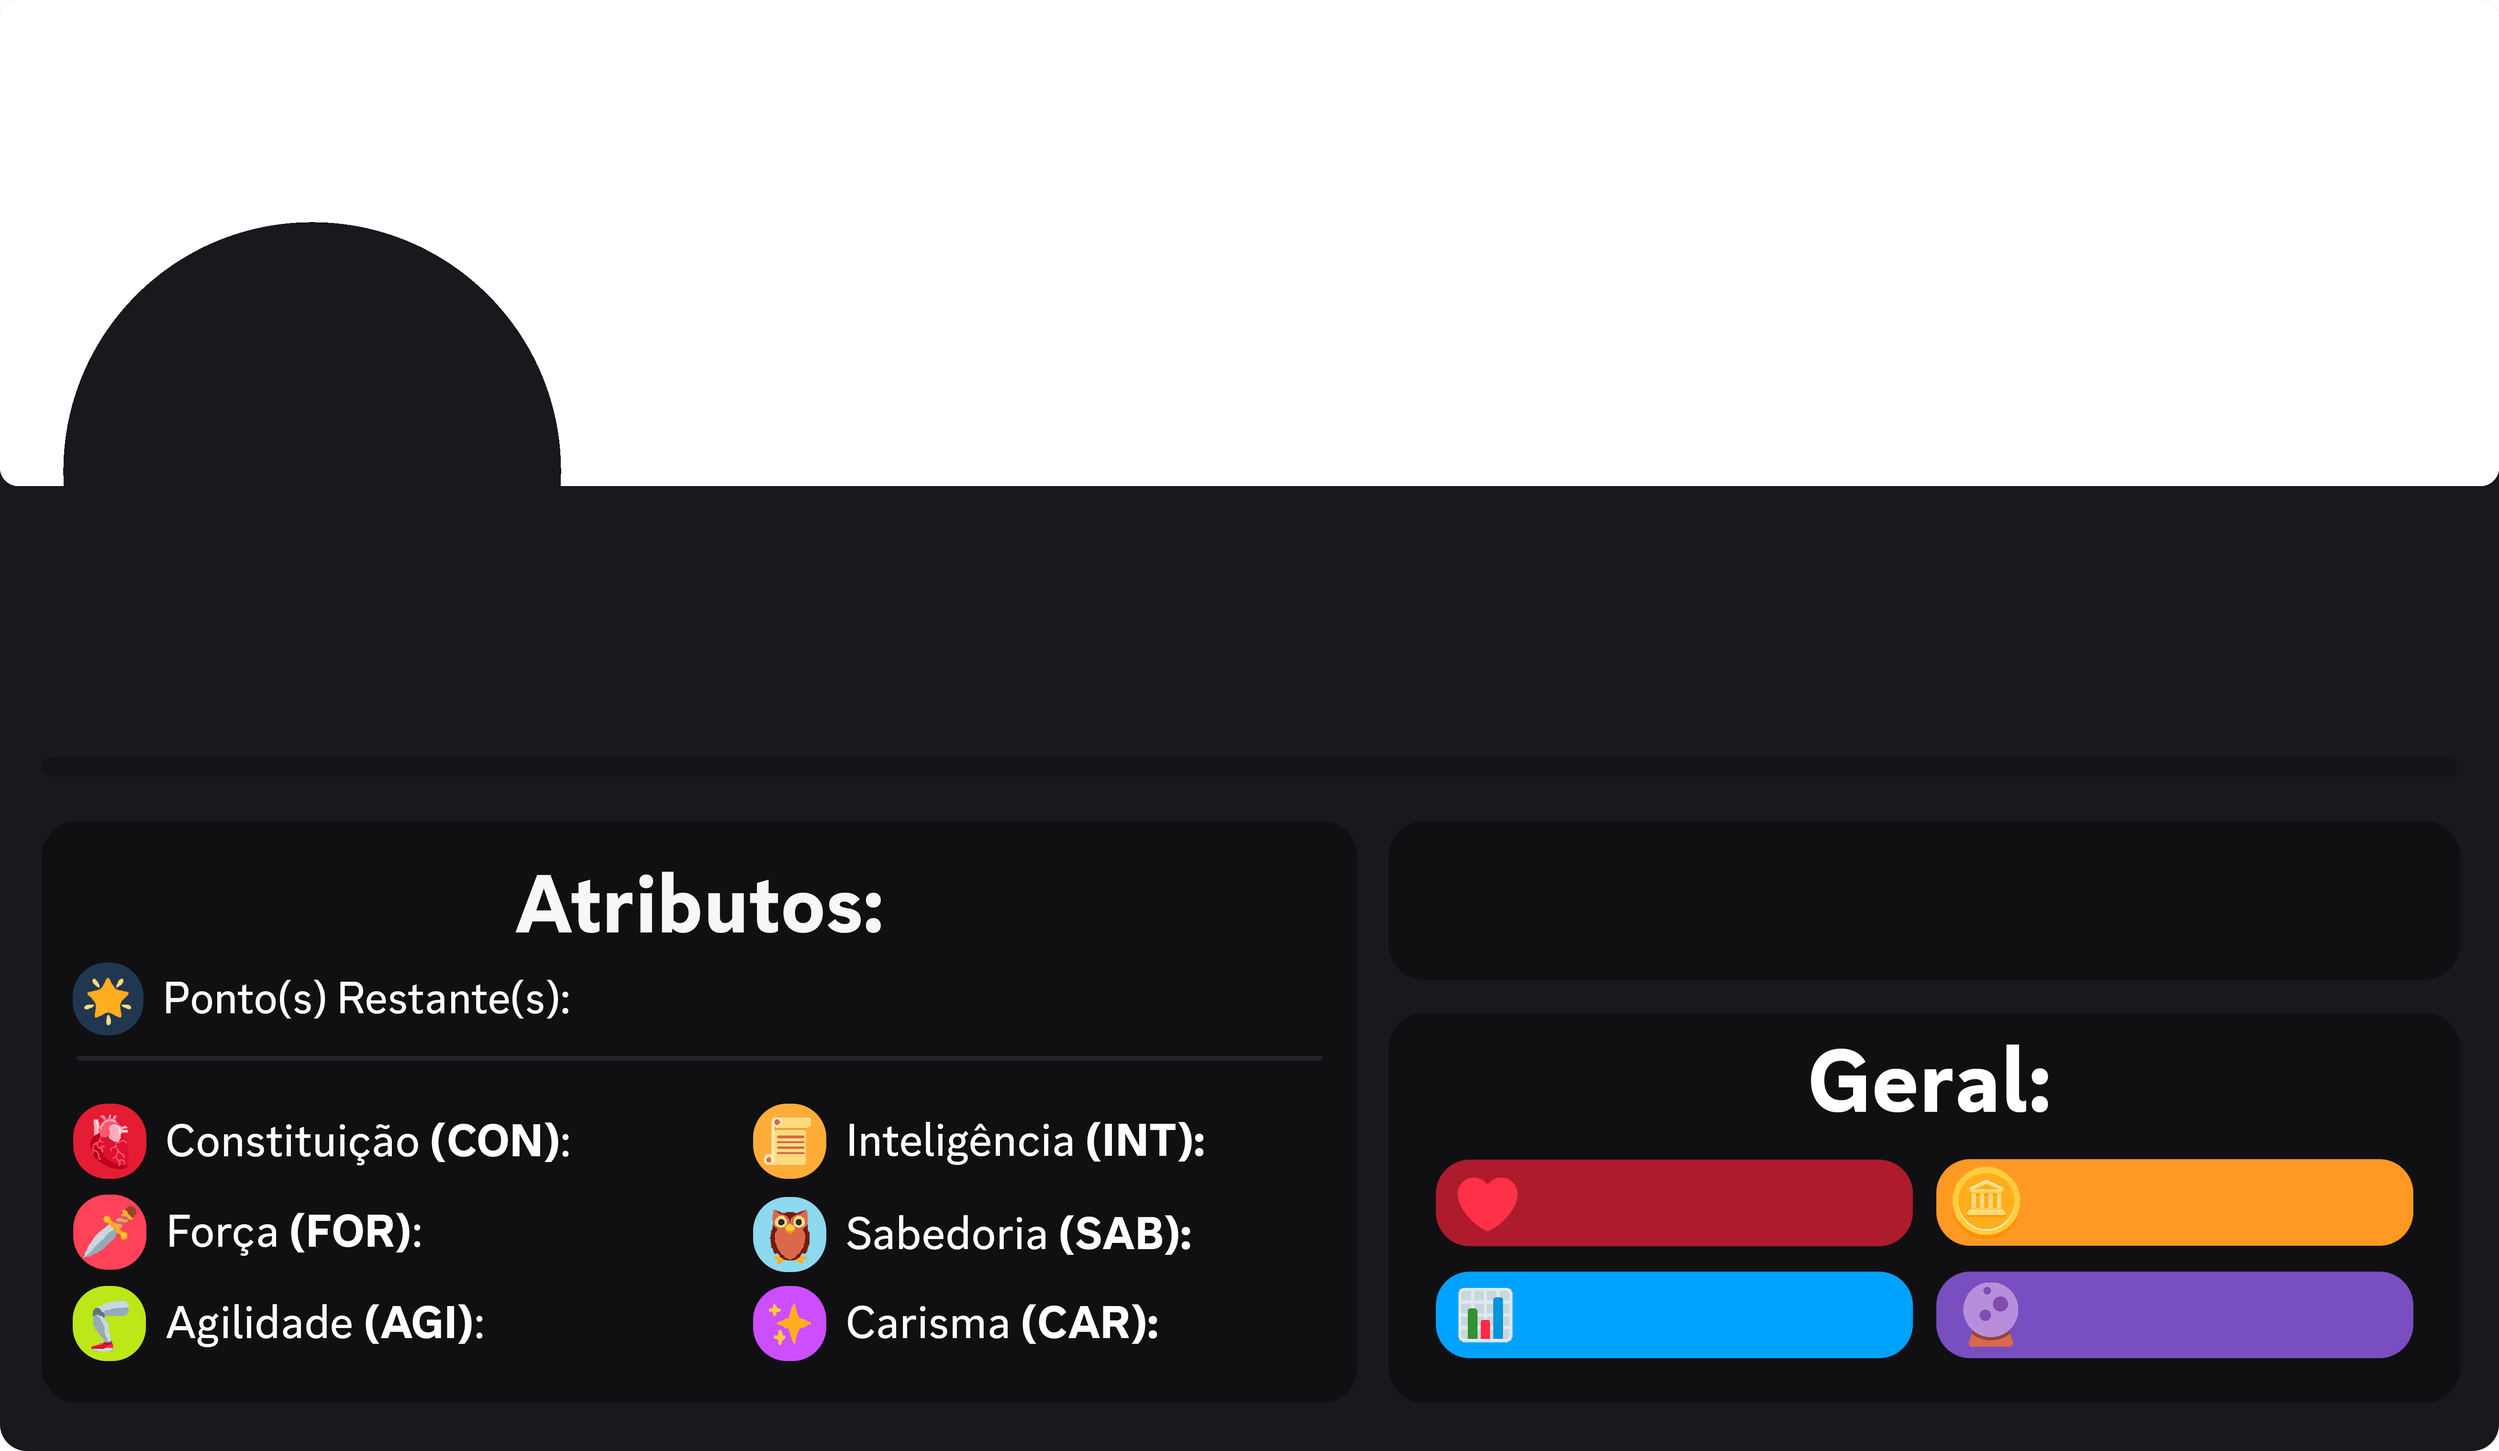
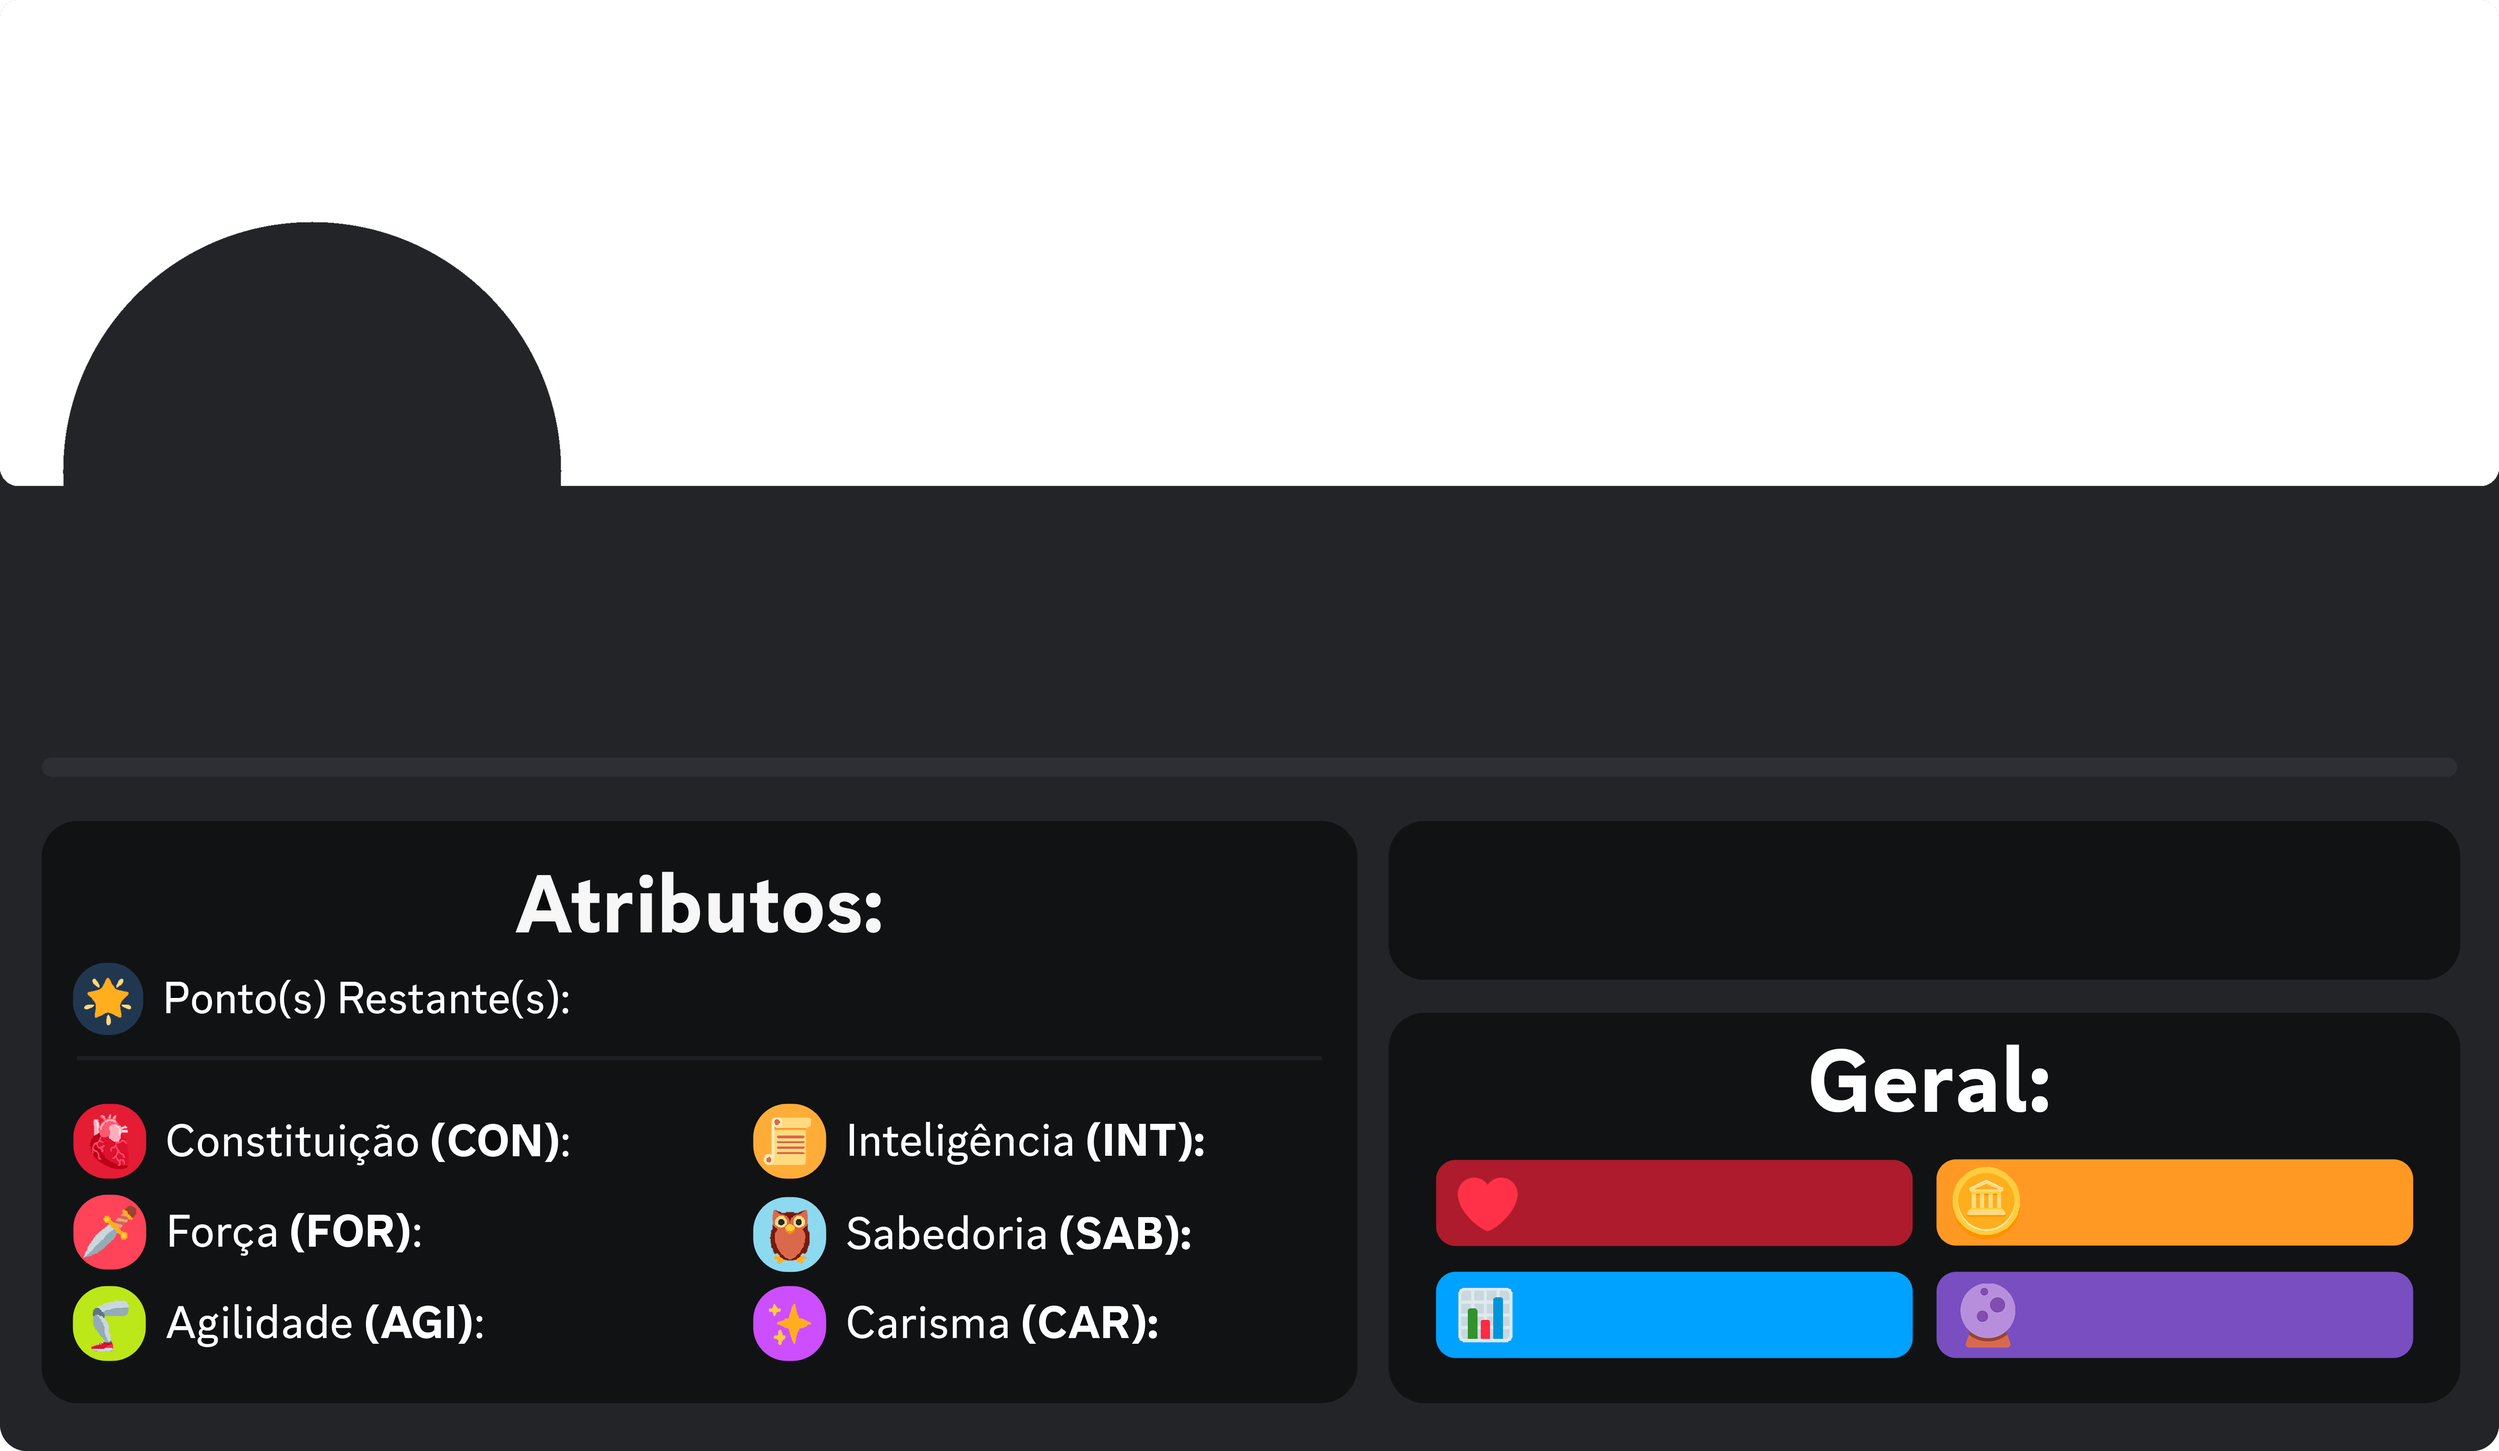
Peps Update - #22

Changed region(s): [[0.0, 0.4959, 0.9987, 0.5579], [0.7802, 0.8988, 0.8114, 0.9298]]

diff --git a/src/commands/misc/status.js b/src/commands/misc/status.js
@@ -21,6 +21,24 @@ Canvas.GlobalFonts.registerFromPath(
     "GG Sans Medium",
 );
 
+const adjustedText = (canvas, text) => {
+	const context = canvas.getContext('2d');
+    context.fillStyle = "#76787b";
+
+	let fontSize = 36;
+	let heightSize = 341;
+
+	do {
+		context.font = `${fontSize -= 1}px GG Sans Medium`;
+	} while (context.measureText(text).width > 950);
+	do {
+        heightSize = heightSize - 6;
+	} while (context.measureText(text).heightSize < 28);
+
+    context.font;
+    context.fillText(text, 296, heightSize);
+};
+
 const createBanner = async (query, user) => {
     const bannerURL = query.info.banner;
     const characterAvatarURL = query.info.avatar;
@@ -98,9 +116,7 @@ const createBanner = async (query, user) => {
         298,
     );
 
-    context.font = "35px GG Sans Medium";
-    context.fillStyle = "#76787b";
-    context.fillText(`${query.info.nicknames}`, 296, 335);
+	adjustedText(canvas, query.info.nicknames);
 
     context.font = "29px GG Sans Medium";
     context.fillStyle = "#828487";
